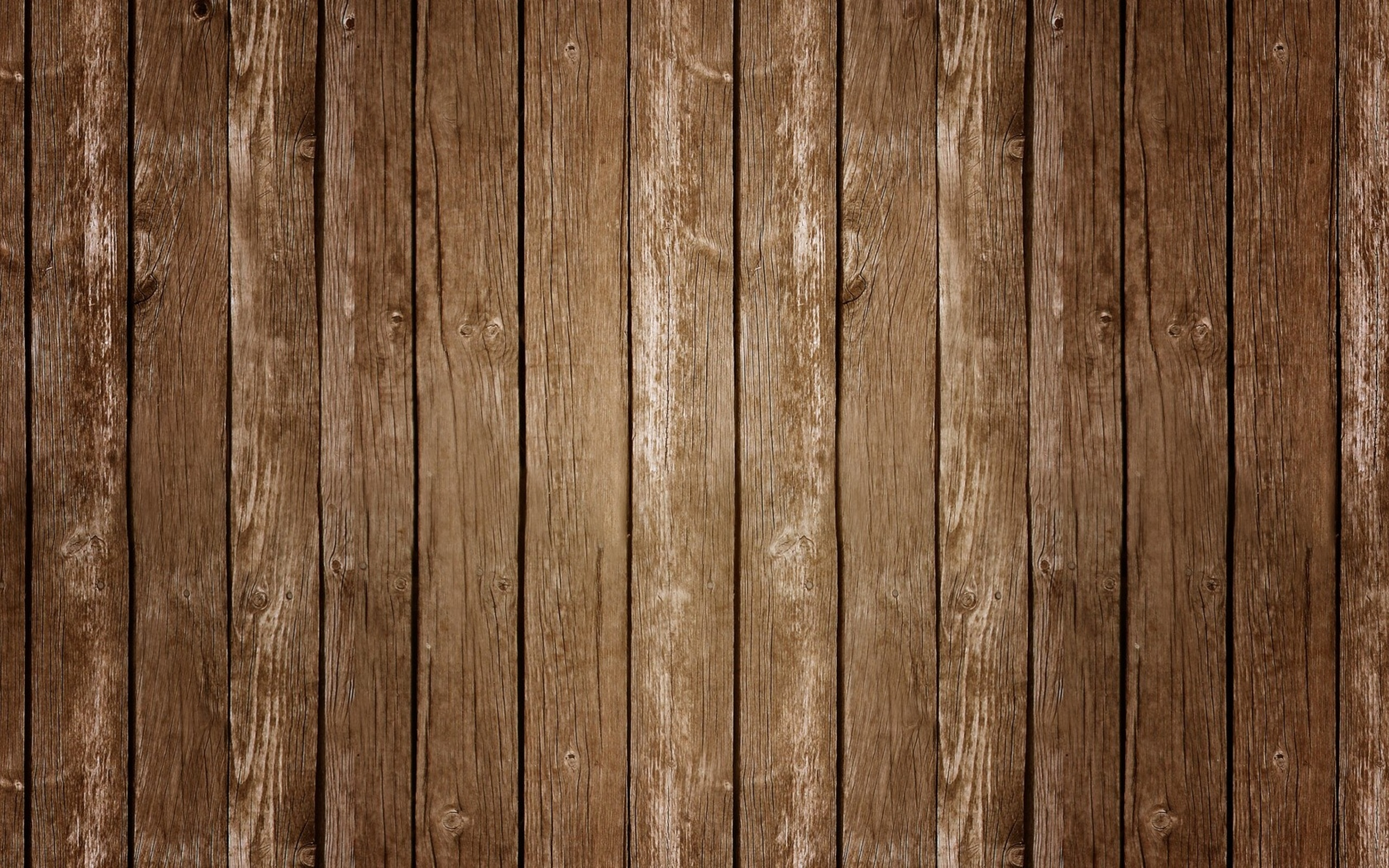
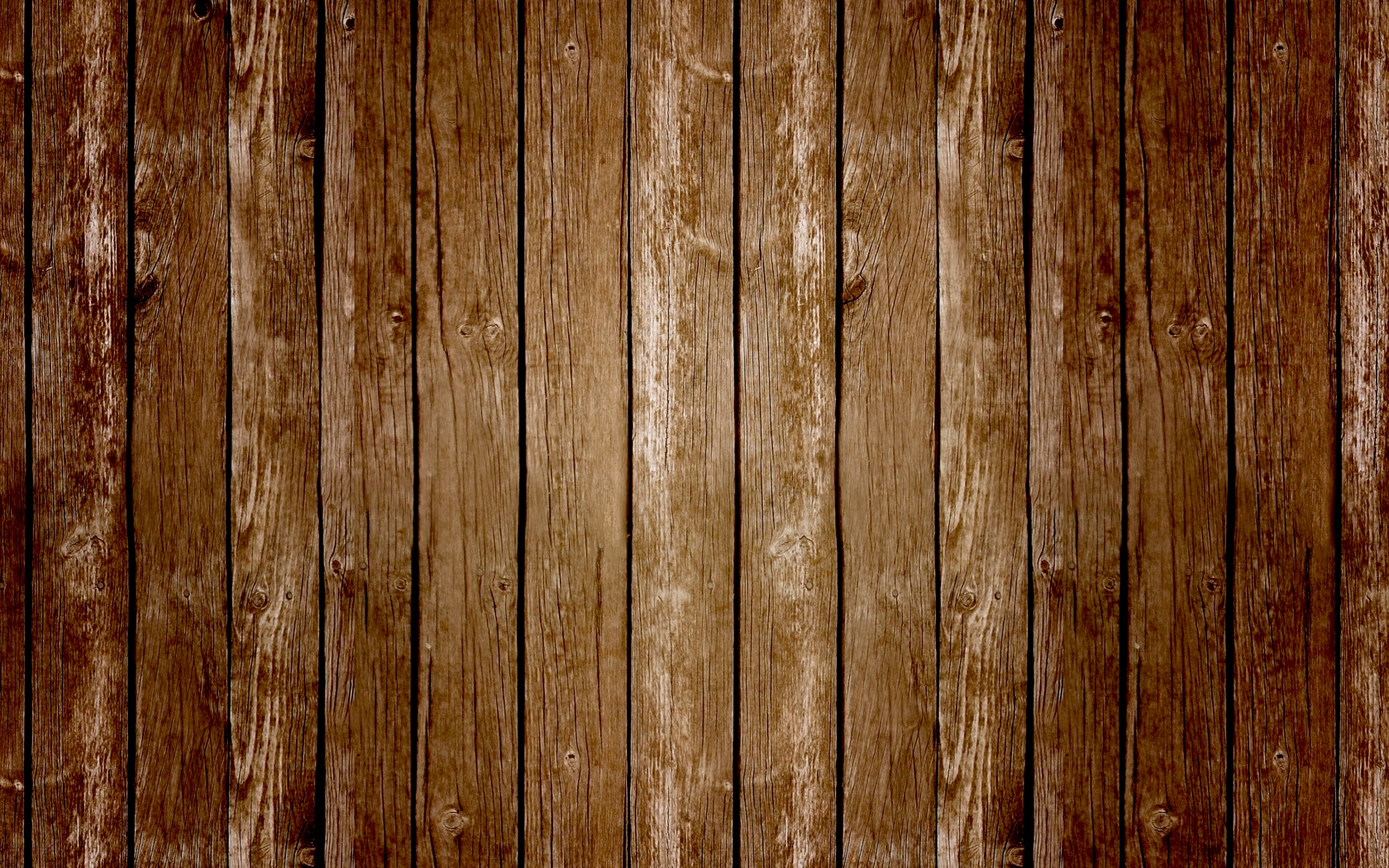
Finished first blackjack draft

diff --git a/draft1/script.js b/draft1/script.js
@@ -1,35 +1,70 @@
 $(document).ready(function () {
-var playerHand = [];
-var dealerHand =[];
-var deck = newDeck();
+  var playerHand = [];
+  var dealerHand =[];
+  var deck = newDeck();
+  var dealt = false;
+  var playerScore = 0;
+  var dealerScore = 0;
+  var pturn = true;
 
+  draw();
+   $('#reset-button').hide();
 
+  $('.buttons').on('click','#deal-button', function(e){
+    if(dealt === false){
+    initialDeal();
+    dealt = true;
+    }
+    scoring();
+    draw();
+  });
 
-dealCards(playerHand);
-dealCards(playerHand);
-draw();
+  $('.buttons').on('click','#hit-button', function(e){
+    if (playerScore < 21) {
+      dealCards(playerHand);
+      scoring();
+      draw();
+      draw();
+    }
+    if (playerScore > 21){
+      $('#messages').text('You Dead!');
+      $('#reset-button').show();
+      pturn = false;
+    }
+  });
 
-  function getCardImageUrl(inp){
-    name = '';
-    console.log(inp.point);
-    if(inp.point >=2 && inp.point <=10){
-      name = inp.point;
+  $('.buttons').on('click','#stand-button', function(e){
+    if (pturn === true){
+      pturn = false;
+      dealerTurn();
+
     }
-    else if (inp.point === 1) {
-      name = 'ace';
+  });
+
+  // $('.buttons').on('click', '#reset-button', function(e){
+  //
+  // });
+
+  function dealerTurn(){
+    while (dealerScore < 17 ) {
+      dealCards(dealerHand);
+      scoring();
+      draw();
+
     }
-    else if (inp.point === 11) {
-      name = 'jack';
+
+    if ( playerScore < 21) {
+      while(dealerScore < playerScore) {
+        dealCards(dealerHand);
+        scoring();
+        draw();
+      }
     }
-    else if (inp.point === 12) {
-      name = 'queen';
-    }
-    else if (inp.point === 13) {
-      name = 'king';
-    }
-    return('images/'+ name + '_of_' + inp.suit +'.png');
+    scoring();
+    winner();
+    draw();
+
   }
-
 
   function calculatePoints(cards){
     var total = 0;
@@ -77,45 +112,49 @@ draw();
     }
     return d;
   }
-
-  // function draw(){
   //
-  //
-  //   playerHand.forEach(function(e){
-  //     console.log(e[0].point);
-  //     var x = '';
-  //      switch(e.suit){
-  //        case 0:
-  //          x='spades';
-  //          break;
-  //        case 1:
-  //          x='hearts';
-  //          break;
-  //        case 2:
-  //          x='clubs';
-  //          break;
-  //        case 3:
-  //          x='diamonds';
-  //          break;
-  //     }
-  //     console.log('<img src=./cards/' + e.point + '_' + x + '.png');
-  //     $('#player-hand').append('<img src=./cards/' + e.point + '_' + x + '.png');
-  //   });
+  // function scoring(){
+  //   console.log(playerHand);
+  //   playerScore = playerHand.reduce(function(a,b){return a.point + b.point;});
   // }
+
+function scoring(){
+  playerScore = calculatePoints(playerHand);
+  dealerScore = calculatePoints(dealerHand);
+}
+
+
+
   function draw(){
-    console.log(playerHand);
+
+    $('#dealer-hand').children().remove();
+    $('#player-hand').children().remove();
 
     for(var n=0; n < playerHand.length; n++){
-      console.log(playerHand[n][1]);
-        console.log('<img src=./cards/' + playerHand[n].point + '_' + playerHand[n].suit + '.png');
+
       $('#player-hand').append('<img class =\'card\'src=./cards/' + playerHand[n].point + '_' + playerHand[n].suit + '.png>');
     }
 
+    for(var n=0; n < dealerHand.length; n++){
 
-
+      if (n === 0 && pturn === true){
+        var back = Math.floor((Math.random() * 9) +1);
+        console.log('<img class =\'card\'src=./cards/back' + back+'.png>');
+        $('#dealer-hand').append('<img class =\'card\'src=./cards/back' + back+'.png>');
+      }
+      else{
+        console.log('<img class =\'card\'src=./cards/' + dealerHand[n].point + '_' + dealerHand[n].suit + '.png>');
+        $('#dealer-hand').append('<img class =\'card\'src=./cards/' + dealerHand[n].point + '_' + dealerHand[n].suit + '.png>');
+      }
     }
-
-
+    $('#player-points').text(playerScore);
+  console.log('test');
+  console.log(pturn);
+    if (pturn === false){
+      console.log('test2');
+    $('#dealer-points').text(dealerScore);
+    }
+  }
 
   function initialDeal(){
     for (var i = 0; i<2; i++){
@@ -129,9 +168,29 @@ draw();
     var r = (Math.floor(
    Math.random() * deck.length));
    var t = deck.splice(r,1);
-   //console.log(t[0]);
-   //console.log(Object.values(t)[0]);
    player.push(Object.values(t)[0]);
   }
+
+  function winner(){
+    if (playerScore <= 21 && playerScore > dealerScore || playerScore <= 21 && dealerScore > 21) {
+      //fireworks
+      $('#messages').text('You win!$$$');
+       $('#reset-button').show();
+      $('body').css('background-image','url(./media/fireworks.gif)')
+    }
+    else if(playerScore > 21 && dealerScore > 21 || playerScore == dealerScore){
+      $('#messages').text('DRAW!');
+       $('#reset-button').show();
+    }
+    else{
+      $('#messages').text('You Dead!');
+       $('#reset-button').show();
+    }
+
+  }
+
+
+
+
 
 });

diff --git a/draft1/index.html b/draft1/index.html
@@ -5,32 +5,29 @@
     <title>Blackjack</title>
     <script src="jquery.js"></script>
     <link rel="stylesheet" href="style.css">
+    <link href="https://fonts.googleapis.com/css?family=Titillium+Web" rel="stylesheet">
+
     <script src="./script.js"></script>
   </head>
   <body>
     <div id="table">
-      <div id="messages"></div>
+      <img src="./media/21.png" id="titlecards">
 
+      <div id="messages">Black Jack </div>
       <div class="dealer-layer">
-      <label>Dealer: </label>
-      <label id="dealer-points" class="points"></label>
-      <div id="dealer-hand" class="hand">
+        <label>Dealer: </label>
+        <label id="dealer-points" class="points"></label>
+        <div id="dealer-hand" class="hand"></div>
+        <label>Player: </label>
+        <label id="player-points" class="points"></label>
+        <div id="player-hand" class="hand"></div>
       </div>
-
-      <label>Player: </label>
-      <label id="player-points" class="points"></label>
-      <div id="player-hand" class="hand">
-
-
-      </div>
-
-    </div>
-
-
       <div class="buttons">
-        <button id="deal-button">Deal</button>
-        <button id="hit-button">Hit</button>
-        <button id="stand-button">Stand</button>
+      <img class="button" id="deal-button" src="./media/dealbutton.png" alt="">
+      <img class="button" id="hit-button" src="./media/hitbutton.png" alt="">
+      <img class="button" id="stand-button" src="./media/stand-button.png" alt="">
+         <!-- onclick="window.location.reload() -->
+      <img class="button" id="reset-button" src="./media/reset.png" onclick="window.location.reload()" alt="">
       </div>
     </div>
   </body>

diff --git a/draft1/style.css b/draft1/style.css
@@ -4,34 +4,65 @@
 }
 
 body{
-  background-image: url('media/woodbar.jpg');
+  background-image: url('media/woodbar2.jpg');
   background-size: 100%;
 }
 
 
 .dealer-layer {
-
-  margin-top: 17%;
+  font-family: 'Titillium Web', sans-serif;
+  margin-top: 6%;
   margin-left: 17%;
   font-weight: bolder;
+  text-shadow: -2px 0 #000000,0 2px #000000,2px 0 #000000,0 -2px #000000;
+  color: white;
+  letter-spacing: 1.5px;
 }
 
 
 .buttons {
   text-align: center;
-  margin-top: 13%;
+  margin-top: 3%;
+
+}
+
+#titlecards  {
+  float: right;
+  margin-right: 3%;
 
 }
 
 .hand {
   background-color: rgba(255,255,255,0.2);
-  /*background-color: white;
-  opacity: .2;*/
   width: 70vw;
   height: 10vw;
 
 
 }
+#table{
+  /*text-align: center;*/
+}
+#messages{
+  font-family: 'Titillium Web', sans-serif;
+  text-align: center;
+  margin-left: 35vw;
+  color: white;
+  height: 50px;
+  width: 400px;
+  font-size: 4em;
+  margin-top: 5%;
+  text-shadow: -2px 0 #000000,0 2px #000000,2px 0 #000000,0 -2px #000000;
 
+
+}
+#dealer-hand{
+  margin-bottom: 5%;
+}
 .card{
+  height:100%;
+}
+.button{
+  height: 100px;
+  background-color: rgba(255,255,255,0.5);
+  border-radius: 40px;
 }
